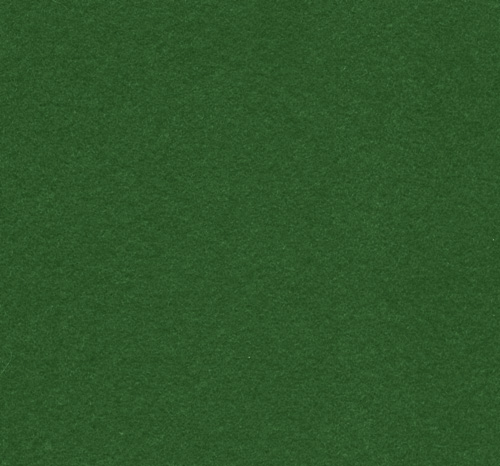
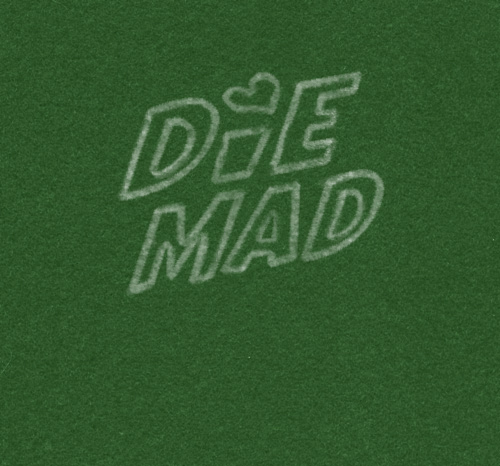
changed the default table theme to have die mad written on it

Changed region(s): [[0.24, 0.1502, 0.78, 0.6309]]

diff --git a/src/services/cheevos.js b/src/services/cheevos.js
@@ -45,7 +45,7 @@ var rollAchievements =  [
         return streaks.critSuccess.length >= 3;
       }
     },
-    reward: 'rare',
+    reward: 'basic',
     got: false
   }, {
     name: 'Critters Never Win',
@@ -55,7 +55,7 @@ var rollAchievements =  [
         return streaks.critFail.length >= 3;
       }
     },
-    reward: 'epic',
+    reward: 'basic',
     got: false
   }, {
     name: 'Rollin on Dubs',
@@ -206,7 +206,7 @@ var rollAchievements =  [
     got: false
   }, {
     name: 'Dicemother\'s Day',
-    description: 'Roll a die on Vanessa\'s birthday. You know, Vanessa, the person who made this dice roller!',
+    description: 'Roll a die on Vanessa\'s birthday. Vanessa made this dice roller!',
     requirement () {
       if ((new Date()).getMonth() === 0 && (new Date()).getDate() === 30) return true;
     },

diff --git a/src/App.vue b/src/App.vue
@@ -303,9 +303,9 @@ export default {
     console.log('You know I can\'t stop you from cheating. So go ahead :)');
 
 
-    let funGoofs = ['i\'m mad', 'let\'s roll', 'like a katamari'];
+    let funGoofs = ['i\'m mad', 'let\'s die', 'send dice pics', 'let\'s roll', 'like a katamari', 'cybergeomancy', 'roll them bones'];
 
-    this.playButtonText = utils.getRandom(funGoofs).toUpperCase();
+    if (settings.cookiesEnabled) this.playButtonText = utils.getRandom(funGoofs).toUpperCase();
   }
 }
 </script>
@@ -374,12 +374,14 @@ html, body {
   width: 100vw;
   max-width: 800px;
   margin: 0 auto;
+  overflow: show;
 
   flex: 1;
 
   background-image: url("./assets/felt.jpg");
   background-color: $felt-green;
-  overflow: show;
+  background-size: cover;
+  background-position: center;
 }
 
 #dice-rack {
